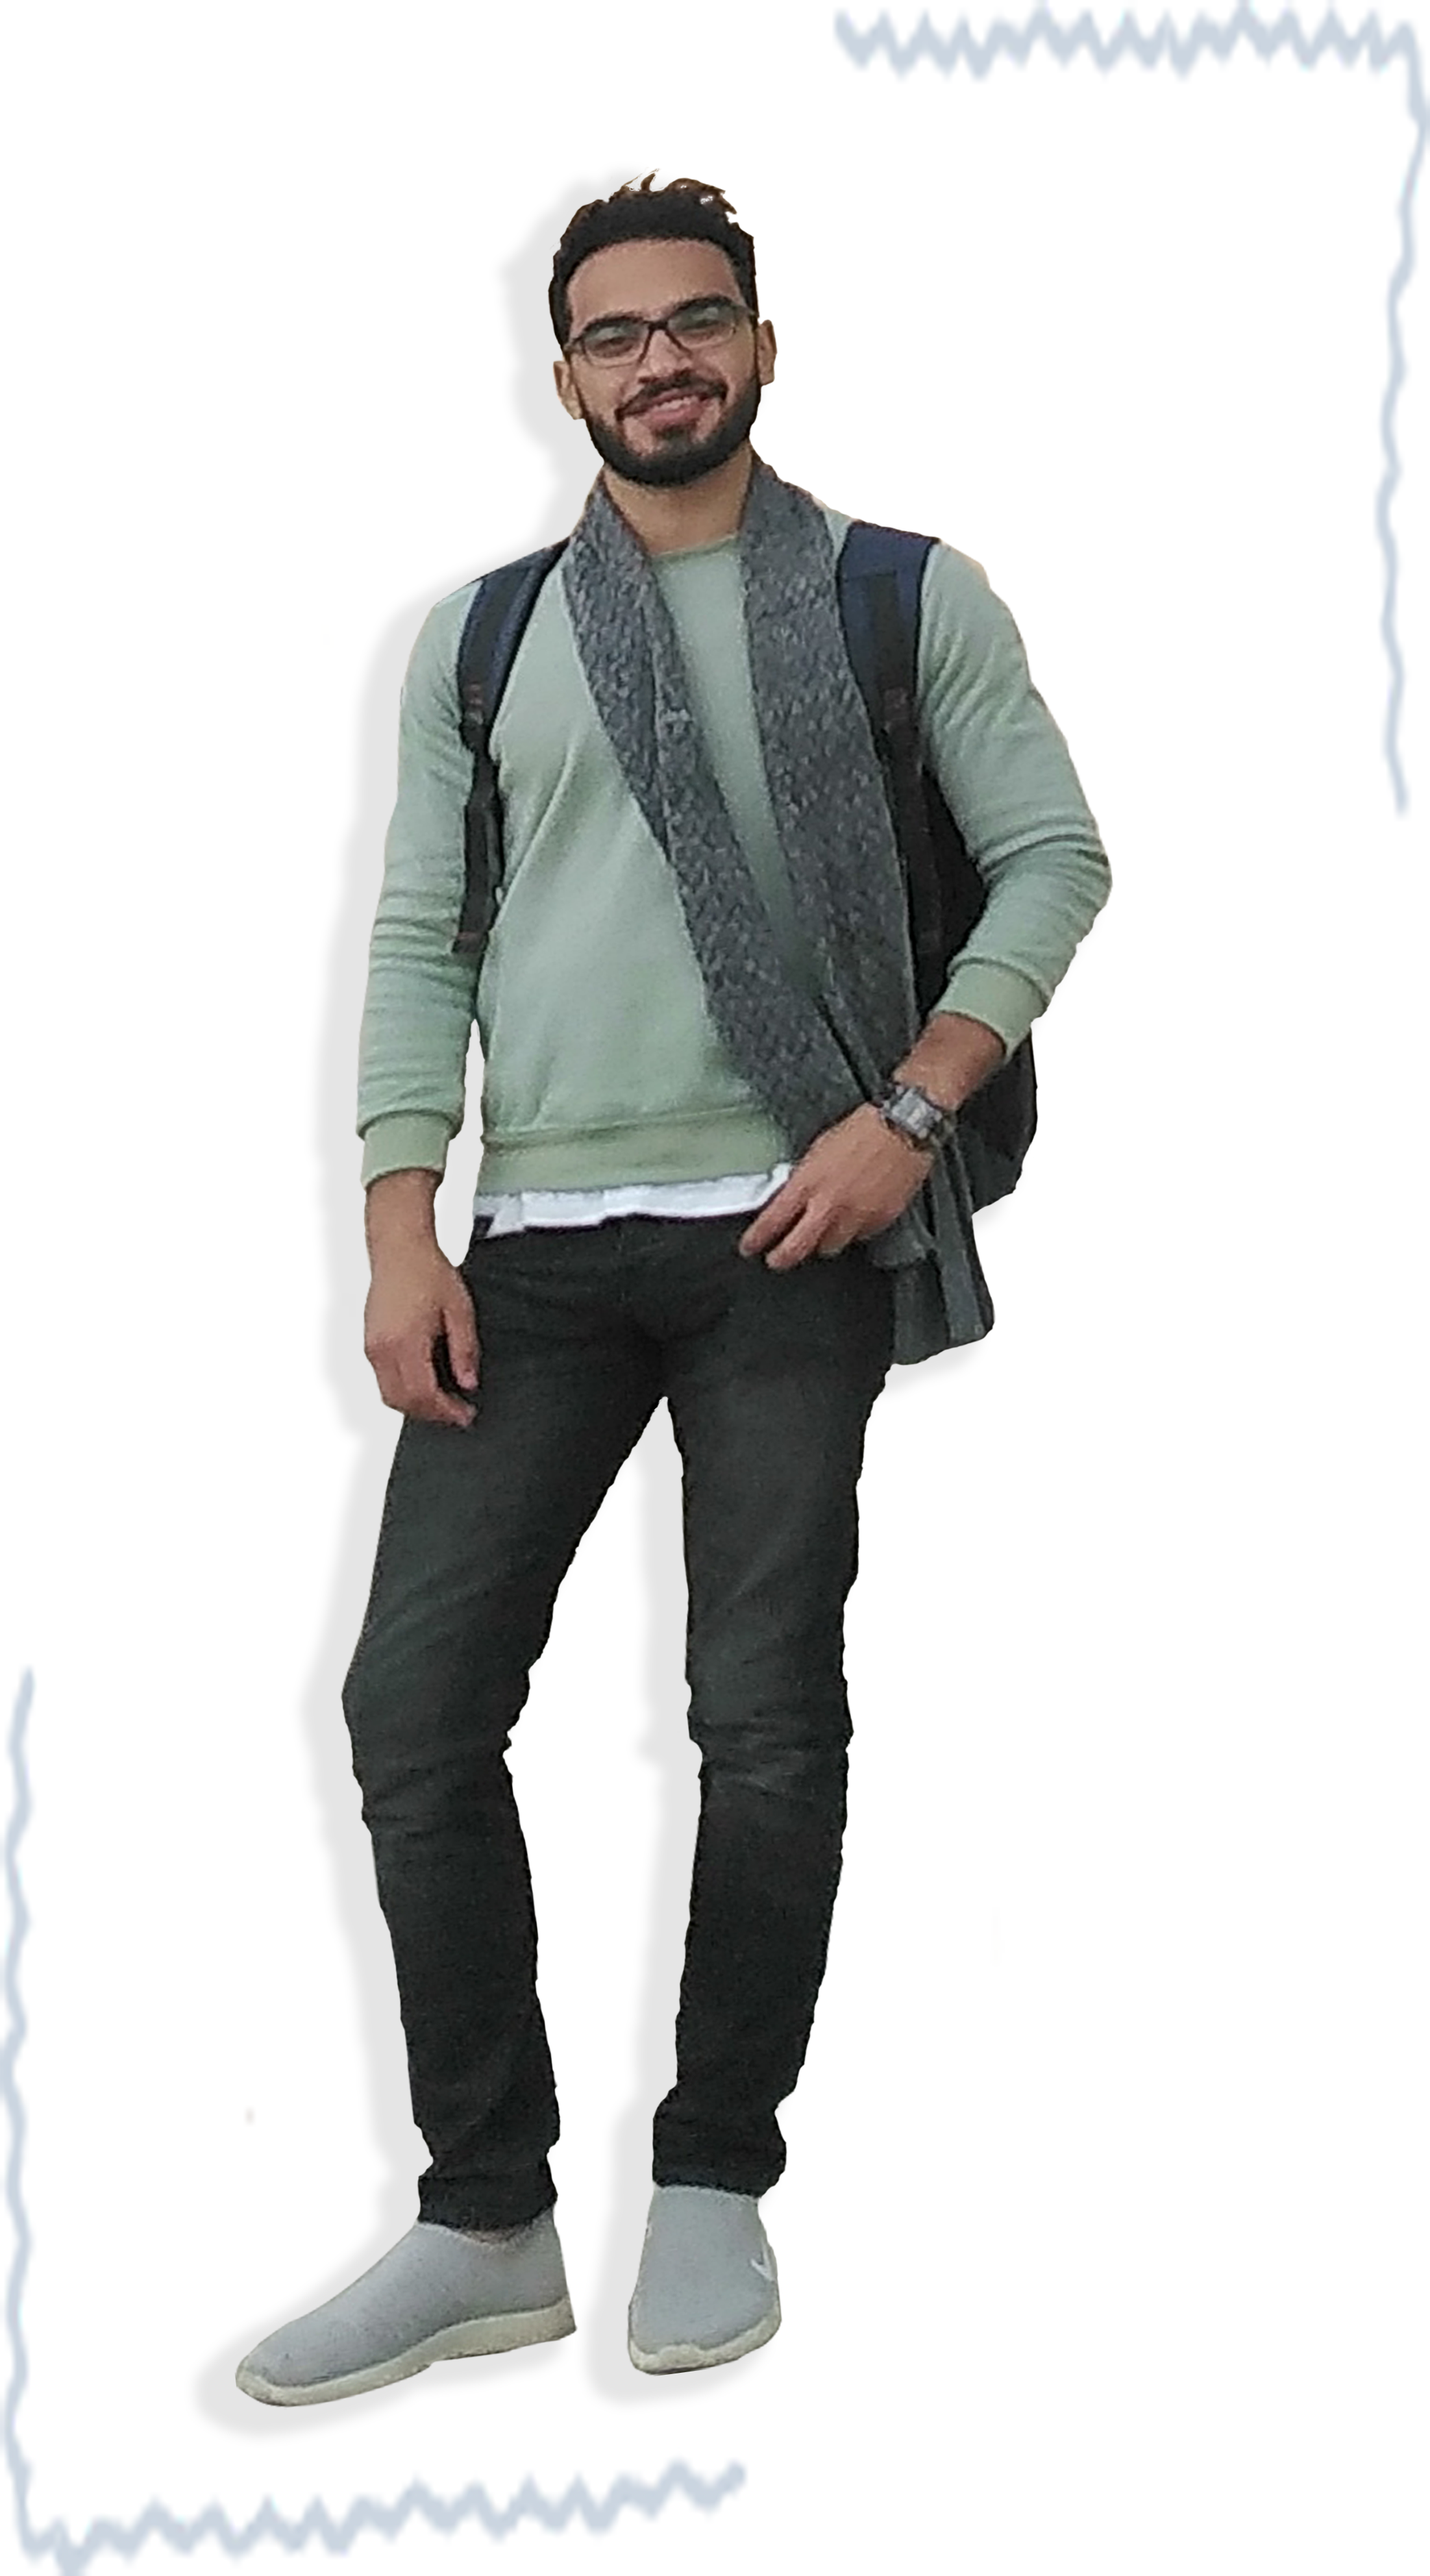
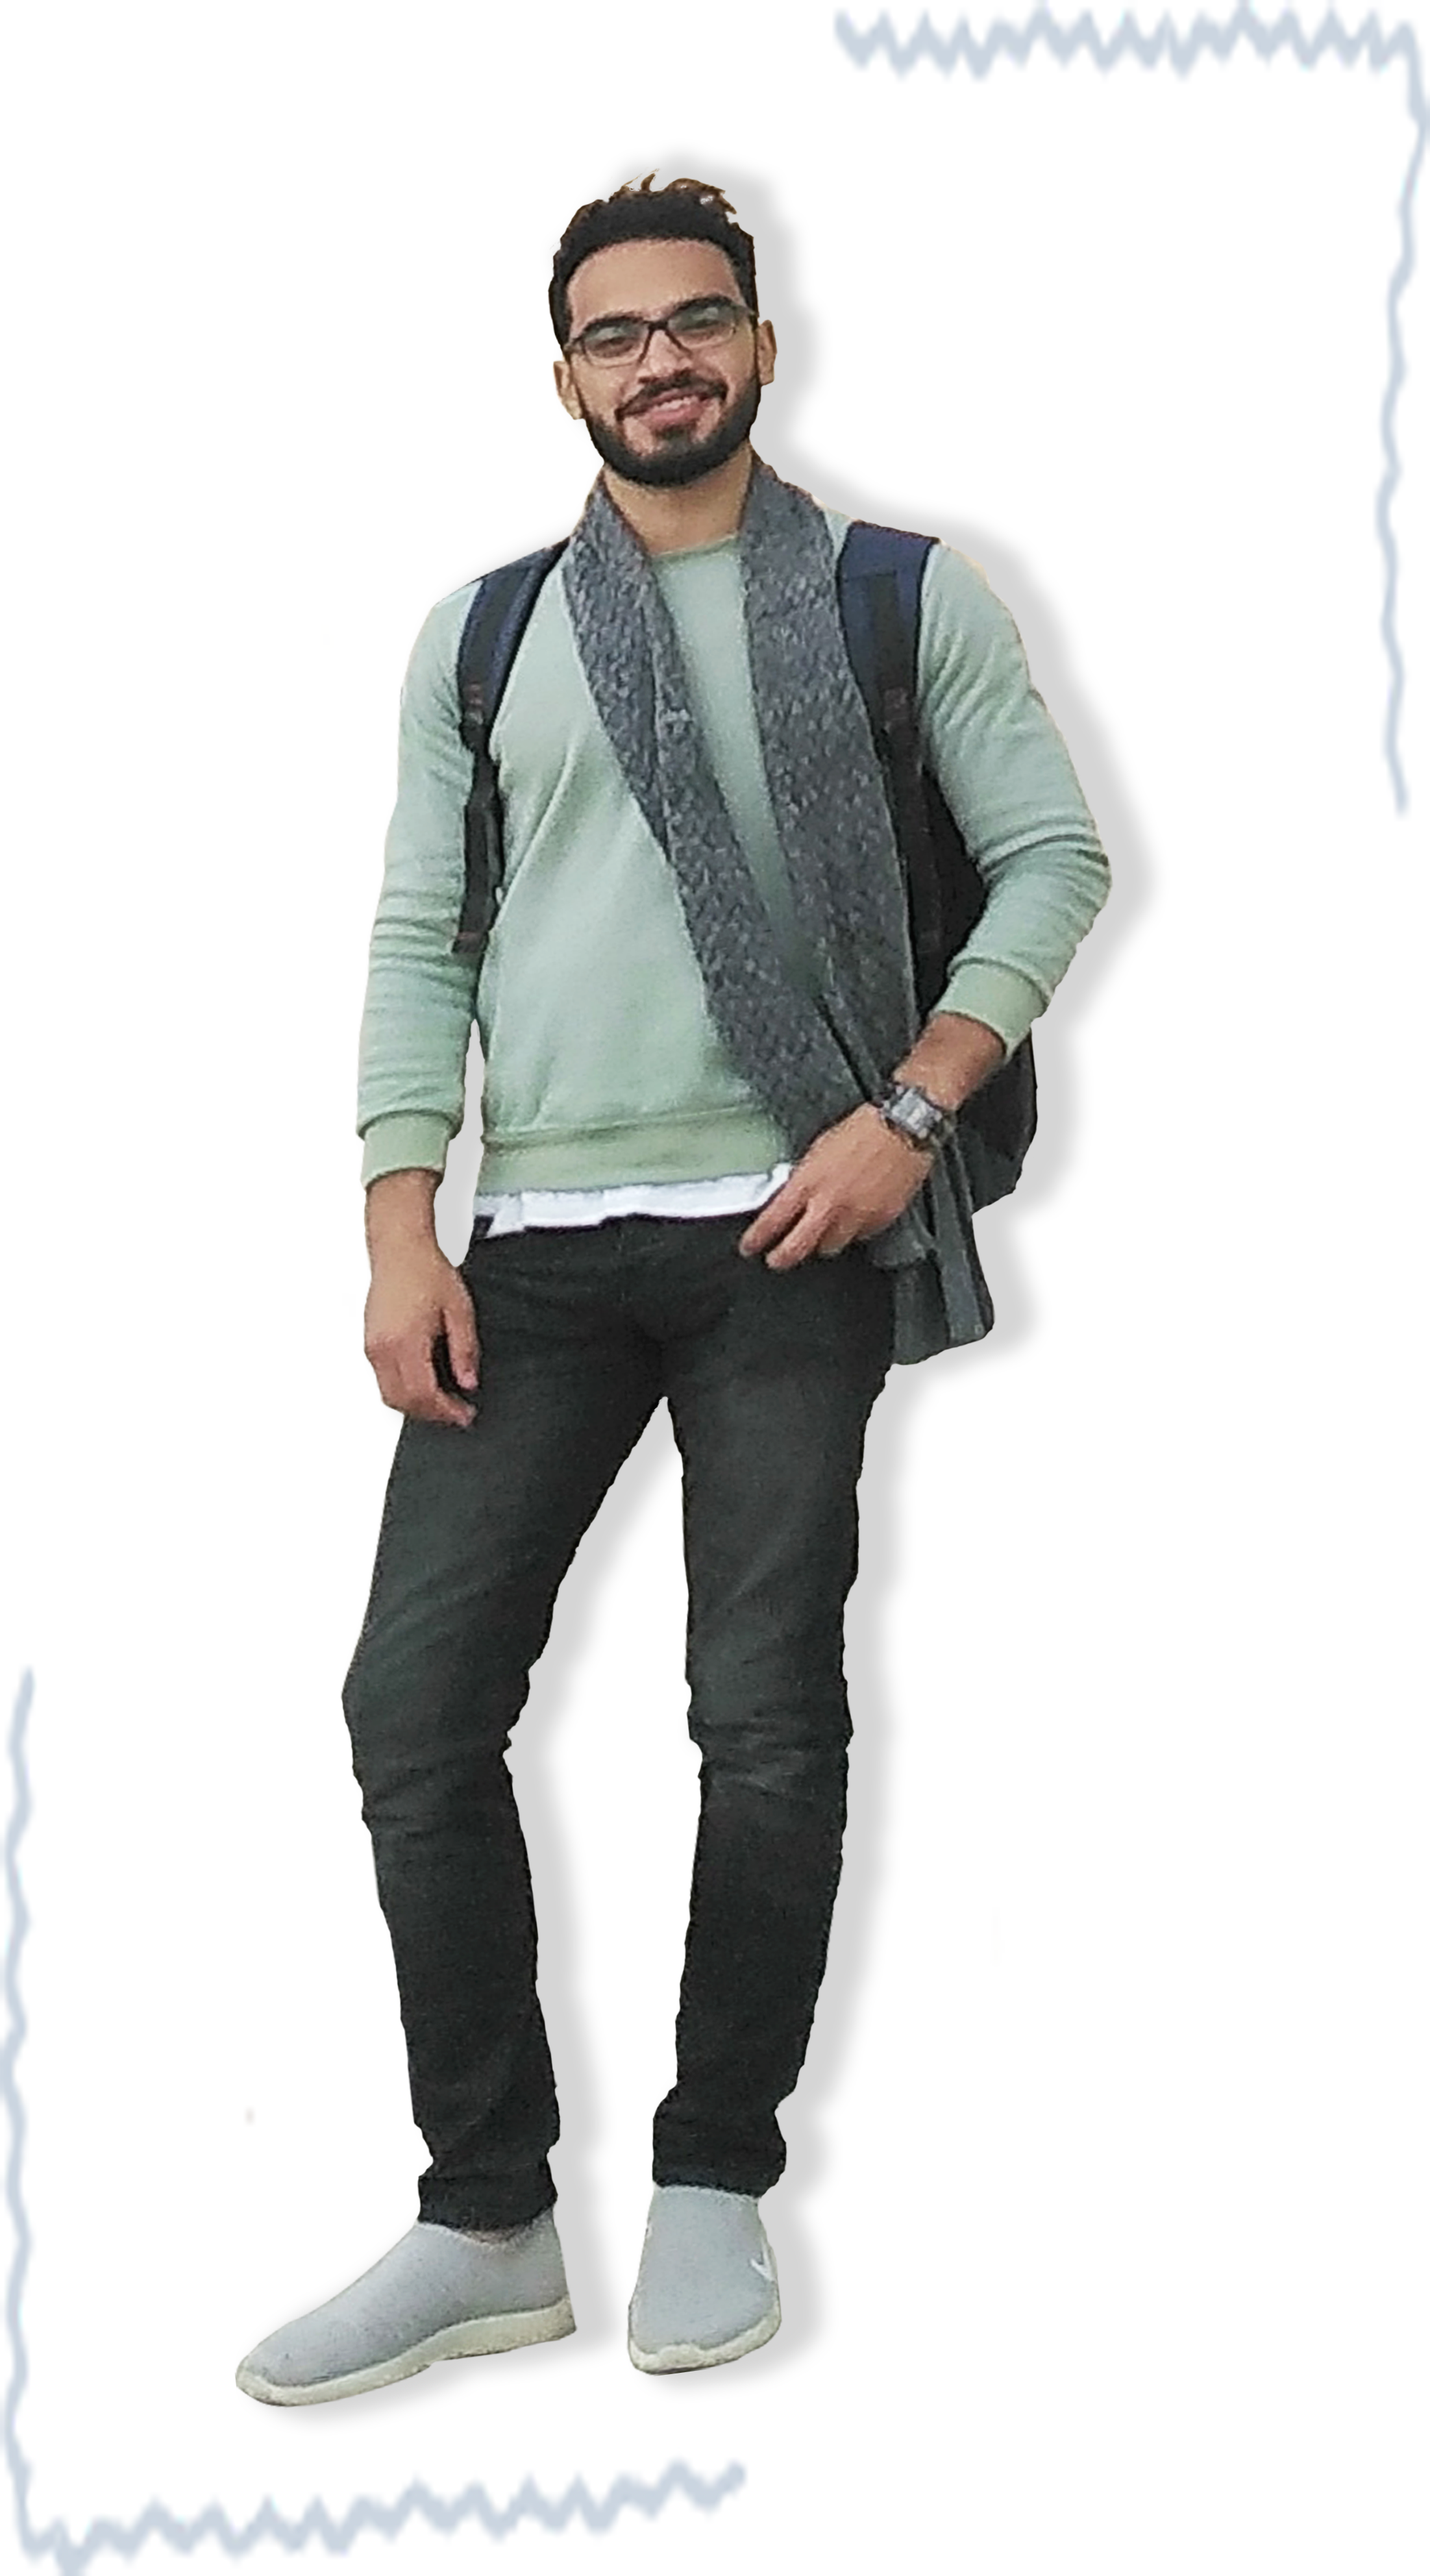
update cover

Changed region(s): [[0.1235, 0.0625, 0.8025, 0.9688], [0.6791, 0.4688, 0.7408, 0.5312]]

diff --git a/src/pages/Index.vue b/src/pages/Index.vue
@@ -4,7 +4,7 @@
 			class="hero container-inner mx-auto flex flex-col sm:flex-row justify-between pb-16 lg:py-24"
 		>
 			<div
-				class="text-5xl font-bold w-full sm:w-3/5 text-center mt-16 lg:mt-24 sm:text-left"
+				class="text-5xl font-bold w-full sm:w-3/5 text-center mt-16 lg:mt-24 sm:text-left xs:mb-16"
 			>
 				<h5 class="text-2xl">
 					Hello! <span class="wave">👋🏻</span>
@@ -12,7 +12,7 @@
 				<div class="leading-tight">I’m Mohamed Abdelrahman</div>
 
 				<div class="pt-2 text-2xl text-blue-400 leading-tight">
-					<vue-typed-js :strings="['21-year-old full-stack web developer', 'Software Developer', 'Open Source Contributor', 'Back-End Developer']" :loop="true" :typeSpeed="30">
+					<vue-typed-js :strings="['Full Stack web developer', 'Software Developer', 'Open Source Contributor', 'Back-End Developer']" :loop="true" :typeSpeed="30">
 						<h1>I'm a <span class="typing"></span></h1>
 					</vue-typed-js>
 				</div>
@@ -86,7 +86,7 @@
                 height="20px"
 				src="/developer.svg"
 				alt="hero"
-				class="mx-auto sm:mx-0"
+				class="mx-auto sm:mx-0 md:w-2/4 sm:w-2/5 md:pl-16 md:pb-16"
 			/>
 		</div>
 
@@ -515,16 +515,7 @@
 					<p class="my-8">
 						Want to chat about anything ranging from marine life to
 						custom hooks in React? Ping me anytime on
-						<a href="https://twitter.com/vrs2001">Twitter</a>.
-					</p>
-
-					<p class="my-8">
-						In case you prefer face-to-face discussions, do tell
-						when by selecting a date & time over
-						<a
-							href=""
-							>here</a
-						>.
+						<a href="https://twitter.com/aboel_kassem">Twitter</a>.
 					</p>
 
 					<p class="my-8">
@@ -535,7 +526,7 @@
 
 					<div class="text-lg sm:text-lg mb-16">
 						<form
-							action="https://formspree.io/f/xgepyjjq"
+							action="https://formspree.io/f/mnqlawow"
 							method="POST"
 							class="mb-12"
 						>

diff --git a/src/main.js b/src/main.js
@@ -58,7 +58,7 @@ export default function(Vue, { router, head, isClient }) {
 
     head.meta.push({
         name: 'twitter:image',
-        content: 'https://res.cloudinary.com/dvdcninhs/image/upload/v1606295687/black3_cdsm6m.jpg',
+        content: 'https://res.cloudinary.com/dvdcninhs/image/upload/v1616943424/IMG_20210325_074803_ykddh1.jpg',
     });
 
     head.meta.push({
@@ -68,7 +68,7 @@ export default function(Vue, { router, head, isClient }) {
     
     head.meta.push({
         name: 'og:image',
-        content: 'https://res.cloudinary.com/dvdcninhs/image/upload/v1606295687/black3_cdsm6m.jpg',
+        content: 'https://res.cloudinary.com/dvdcninhs/image/upload/v1616943424/IMG_20210325_074803_ykddh1.jpg',
     });
 
     head.meta.push({
